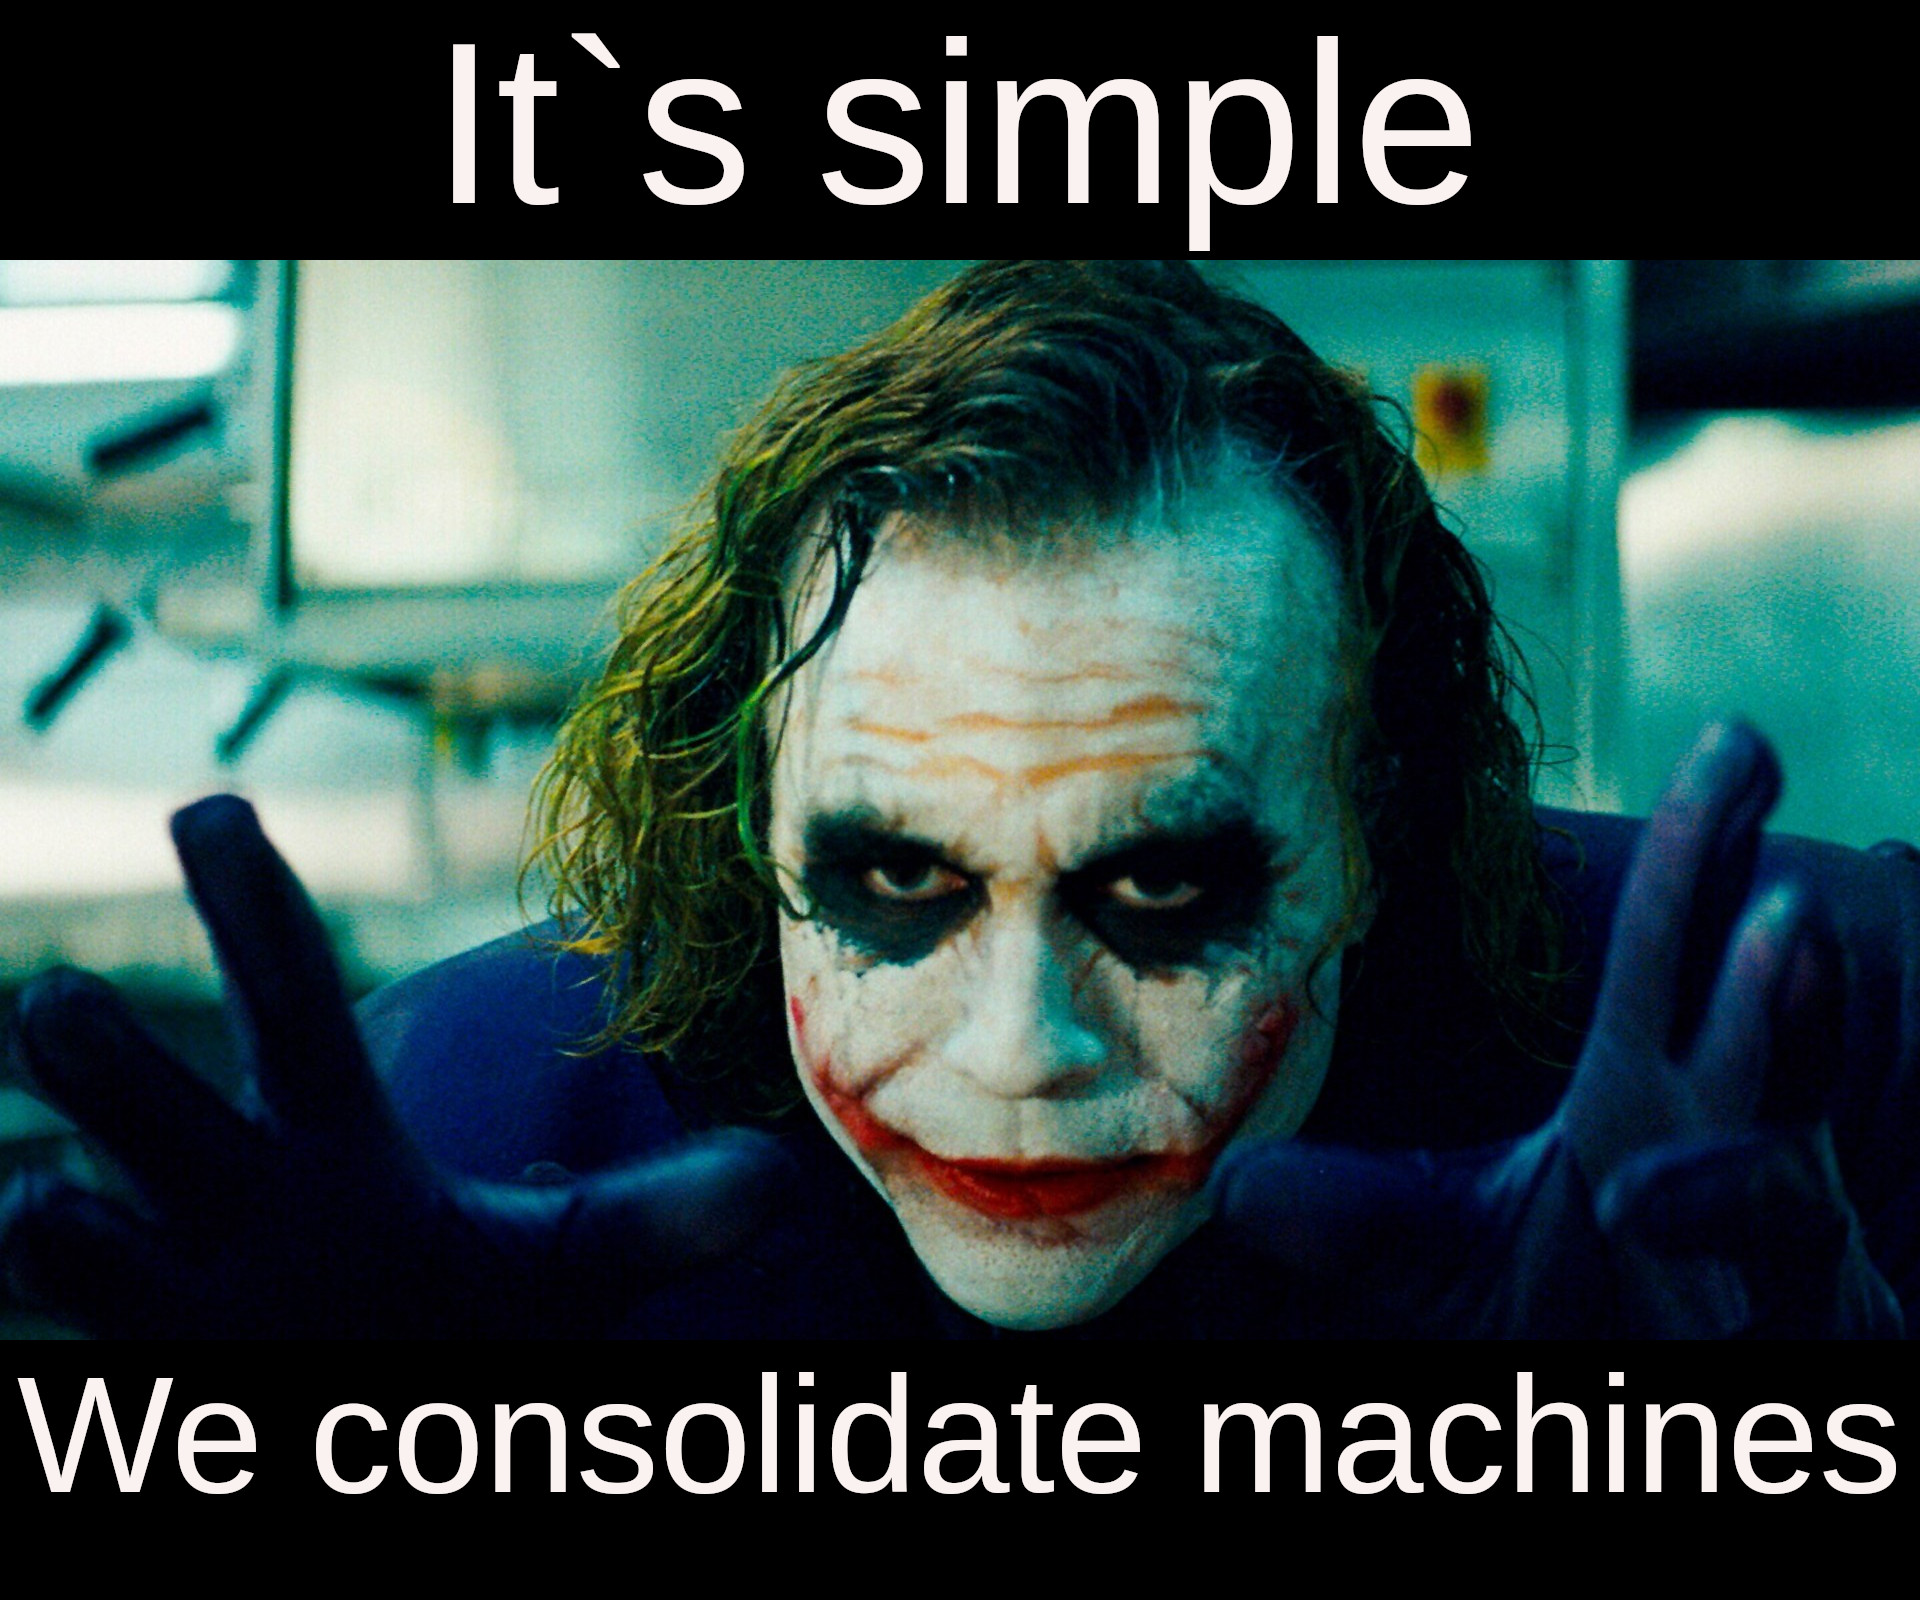
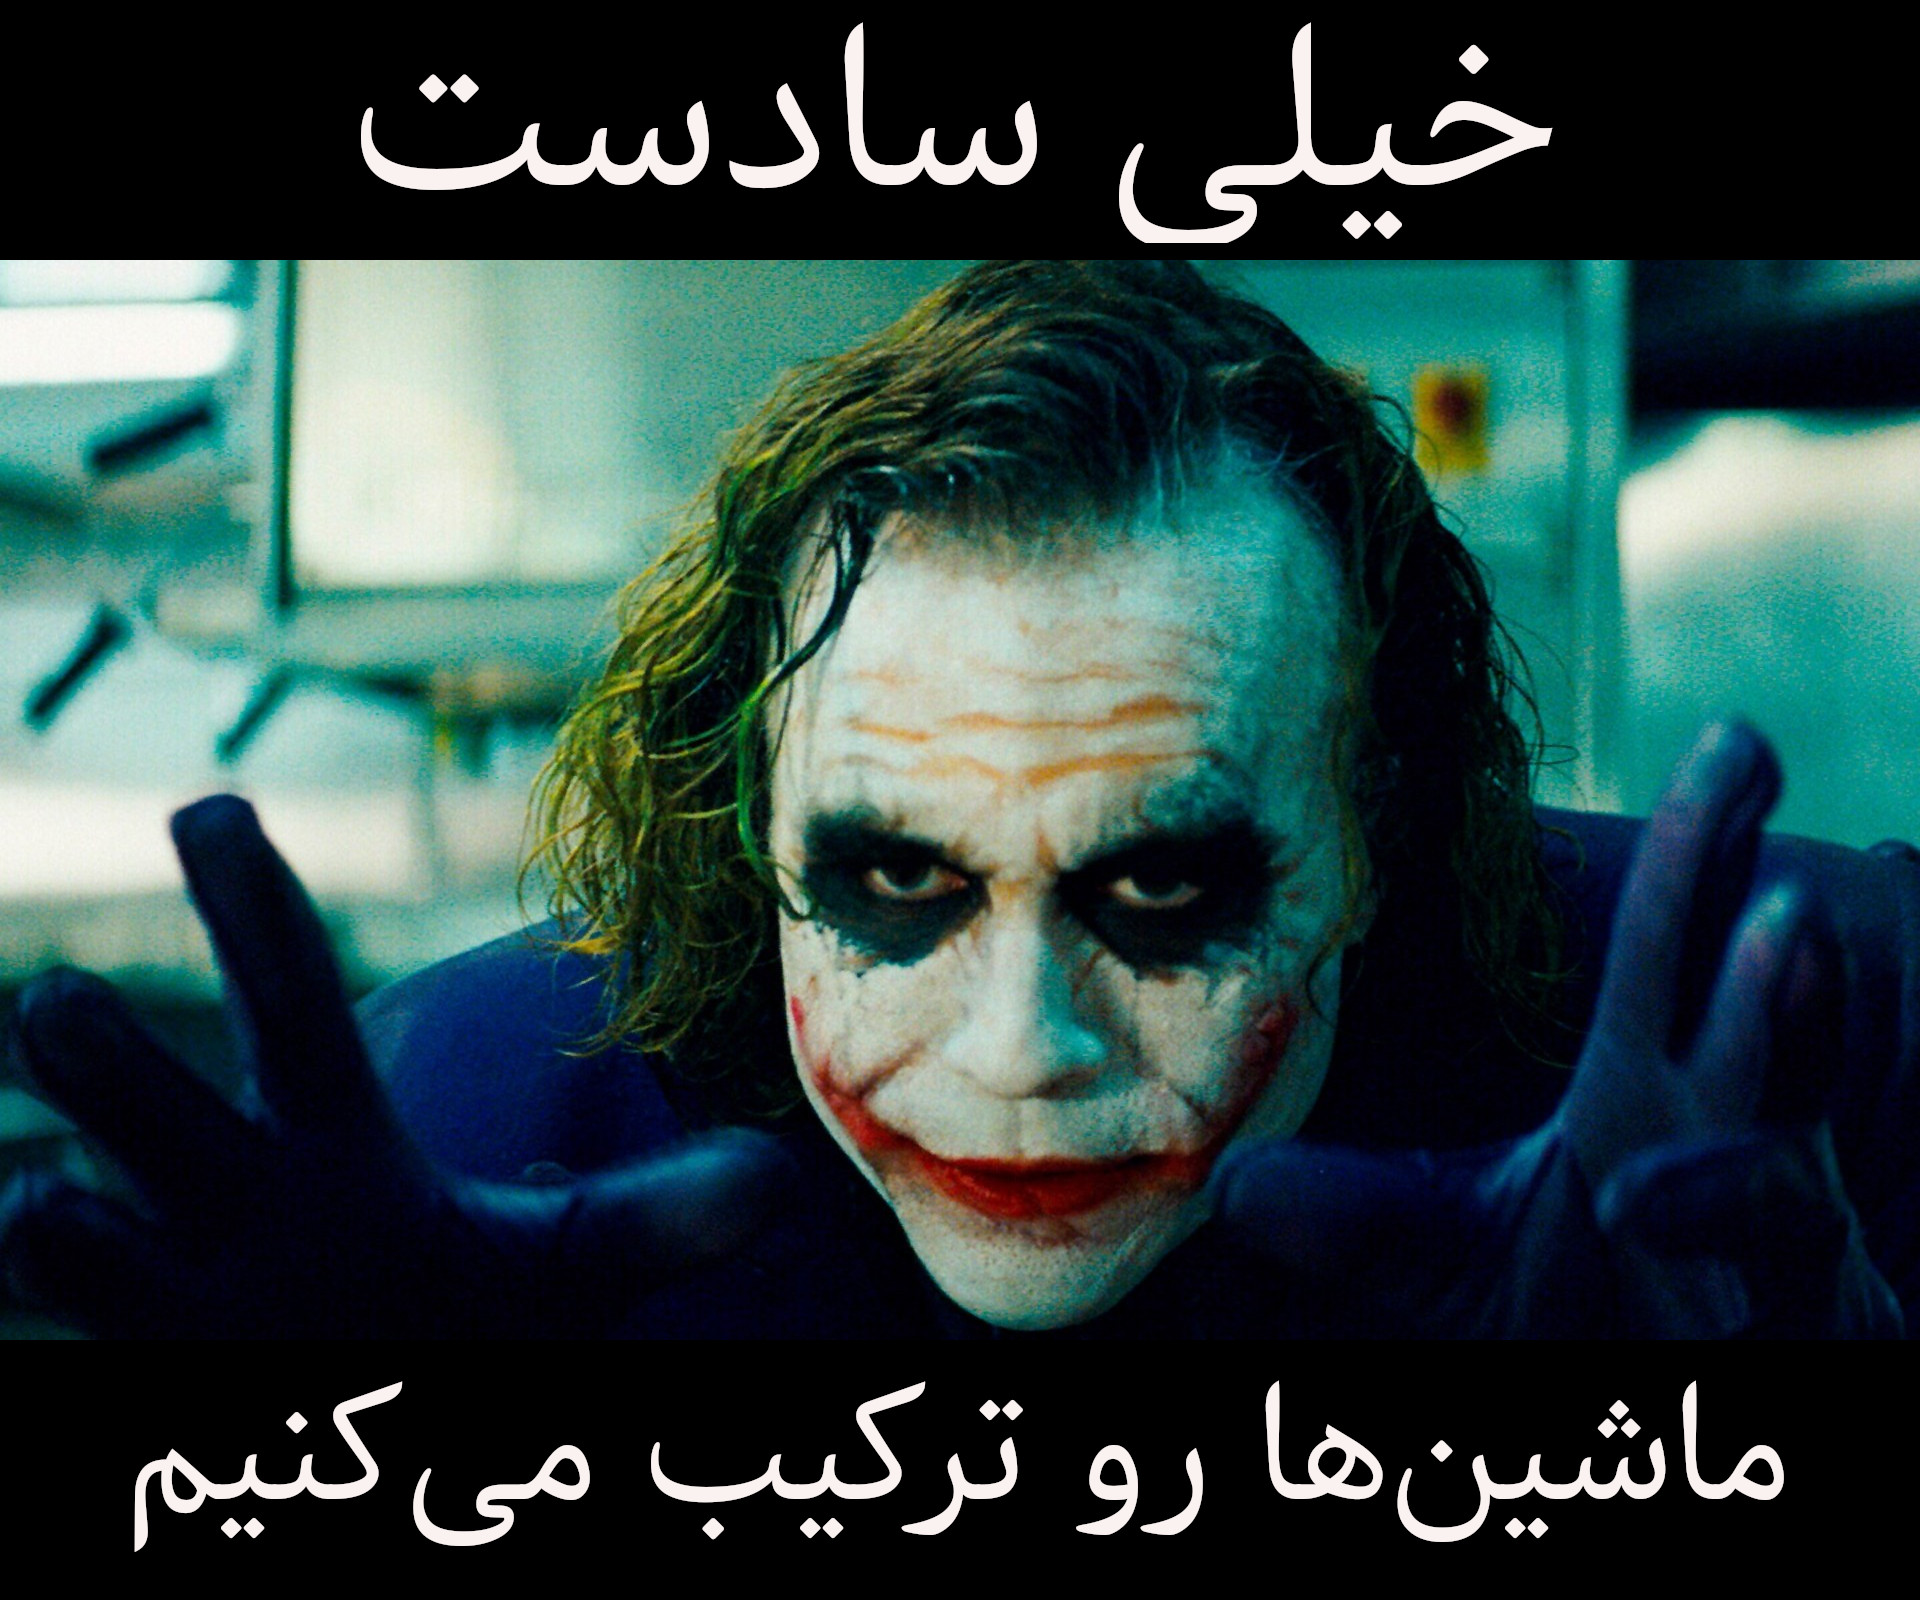
lots of change

Changed region(s): [[0.0, 0.8438, 1.0, 0.9688], [0.1875, 0.0, 0.8125, 0.1562]]

diff --git a/index.html b/index.html
@@ -581,6 +581,28 @@ http://www.inf.usi.ch/faculty/pautasso/talks/2012/soa-cloud-rest-tcc/rest-tcc.ht
                                                         چه روشی برای کنترل مهاجرت ماشینهای مجازی به منظور انتخاب ماشین مجازی مناسب استفاده کنیم؟                                </li>
                                                 </ul>
                                             </q>
+                                            </div>       <div id="questions" class="step slide" data-x="-1300" data-y="-2000" data-scale="1" >
+                                            <q>
+                                            <h2>
+                                            سوالاتی که قرار است به آنها پاسخ پیدا کنیم
+                                            </h2>
+                                                               <br>
+                                                           
+                                            <ul id="inli">
+                                                    <li id="fali" class="substep">
+                                                            
+                                                    به چه نحوی میتوانیم جای دهی مناسبی از ماشینهای مجازی روی ماشینهای فیزیکی فراهم آوریم ؟
+                                                <br>    
+                                                </li>
+                                                <li id="fali" class="substep">
+                                                        به چه نحوی در استفاده مناسب از منابع ماشینهای فیزیکی تاثیر میگذاریم؟     
+                                                
+                                                <br>
+                                                    </li>
+                                                 <li id="fali" class="substep">
+                                                        چه روشی برای کنترل مهاجرت ماشینهای مجازی به منظور انتخاب ماشین مجازی مناسب استفاده کنیم؟                                </li>
+                                                </ul>
+                                            </q>
                                             </div>
                                             <div class="step" data-x="-300" data-y="-2000" id="whatsthepoint" data-rotate="280">
                                                 <img src="./files/whatsthepoint.png">
@@ -589,6 +611,16 @@ http://www.inf.usi.ch/faculty/pautasso/talks/2012/soa-cloud-rest-tcc/rest-tcc.ht
                                                     هدف چیه ؟
                                                 </h1>
                                             </div>
+<div id="vmonpm" data-x="500" data-y="-2000" class="slide step">
+    <h2>
+انتخاب میزبان به ماشین مجازی
+    </h2>
+    <br>
+    <img src="./files/3-1-1.png" id="f3-1">
+    <h4>
+        میزبانی که ضریب فکتور پایینتری دارد را برای ماشینمجازی انتخاب میکنیم
+    </h4>
+</div>
 
 <div id="consolidation" class="step" data-x="1500" data-y="-2000" data-scale="1" >                           <q>
                                <h3>
@@ -597,8 +629,54 @@ http://www.inf.usi.ch/faculty/pautasso/talks/2012/soa-cloud-rest-tcc/rest-tcc.ht
         </h3>
 <img src="./files/consolidate.jpeg" >
                                                             </div>
+                                                        
+                                                            <div id="choosevm" class="step slide" data-x="2500" data-y="-2000" data-scale="1" data-rotate="180">
+                                                                    <q>
+                                                                    <h2>
+انتخاب ماشین فیزیکی از                                   میزبان سرریز شده برای انتقال                                  </h2>
+                                                                                       <br>
+                                                                                   
+                                                                    <ul id="inli">
+                                                                            <li id="fali" class="substep">
+                                                                                    
+حداقل بهره پردازنده                                                                        <br>    
+                                                                        </li>
+                                                                        <li id="fali" class="substep">
+                                                                            به صورت تصادفی                                                                        
+                                                                        <br>
+                                                                            </li>
+                                                                         <li id="fali" class="substep">
+حداقل نسبت رم به پهنا باند.                                                                               </li>
+                                                                        </ul>
+                                                                    </q>
+                                                                    </div>
+                                                                    <div id="whatsproblem" class="step" data-x="3500" data-y="-2000" data-scale="1" >                           <q>
+                                                                            <h3>
+نوآوری؟                                                     
+  </h3>
+                                             <img src="./files/fry.png" >
+                                                                                                         </div>
+        <div class="step slide" id="energy" data-x="4500" data-y="-2000" data-rotate="200" >
+            <q>
+                <h1>
+                  <p class="title-center">
+                    محاسبه انرژی
+                </h1>
+                
+                  </p>
+                  <p class="slide-body">
+                        پردازنده                                      بیشترین تاثیر را در مصرف انرژی  دارد.
+                  </p>
+                  <p class="title-center-smaller">
+                محاسبه انرژی مصرفی در حسب زمان :
+                  </p>
+                <img src="./files/3-3.png">
+                <img src="./files/3-4.png">
+                
+            </q>
+        </div>
 
-        
+
 <!--
 
 

diff --git a/css/saeb.css b/css/saeb.css
@@ -315,6 +315,8 @@ ul {
     text-shadow: 0px 0px 0px yellow !important; 
     color: yellow;
 }
+li,
+#vmonpm,
 #questions,
 #environment,
 #consolidation{
@@ -324,7 +326,9 @@ ul {
 }
 #questions  q h2,
 #consolidation  q h2,
+q h2,
 #environment q h2{
+    direction: rtl;
     font-size: 35px;
 }
 /* 
@@ -332,3 +336,20 @@ img{
     margin: auto;
     width: 63%
 } */
+#f3-1{
+height: initial;
+}
+.title-center{
+    direction: rtl;
+    text-align: center;
+}
+.slide-body{
+    font-family: Vazir;
+    direction: rtl;
+    font-size: 80%;
+}
+.title-center-smaller{
+    direction: rtl;
+    text-align: center;
+    font-size: 90%;
+}
